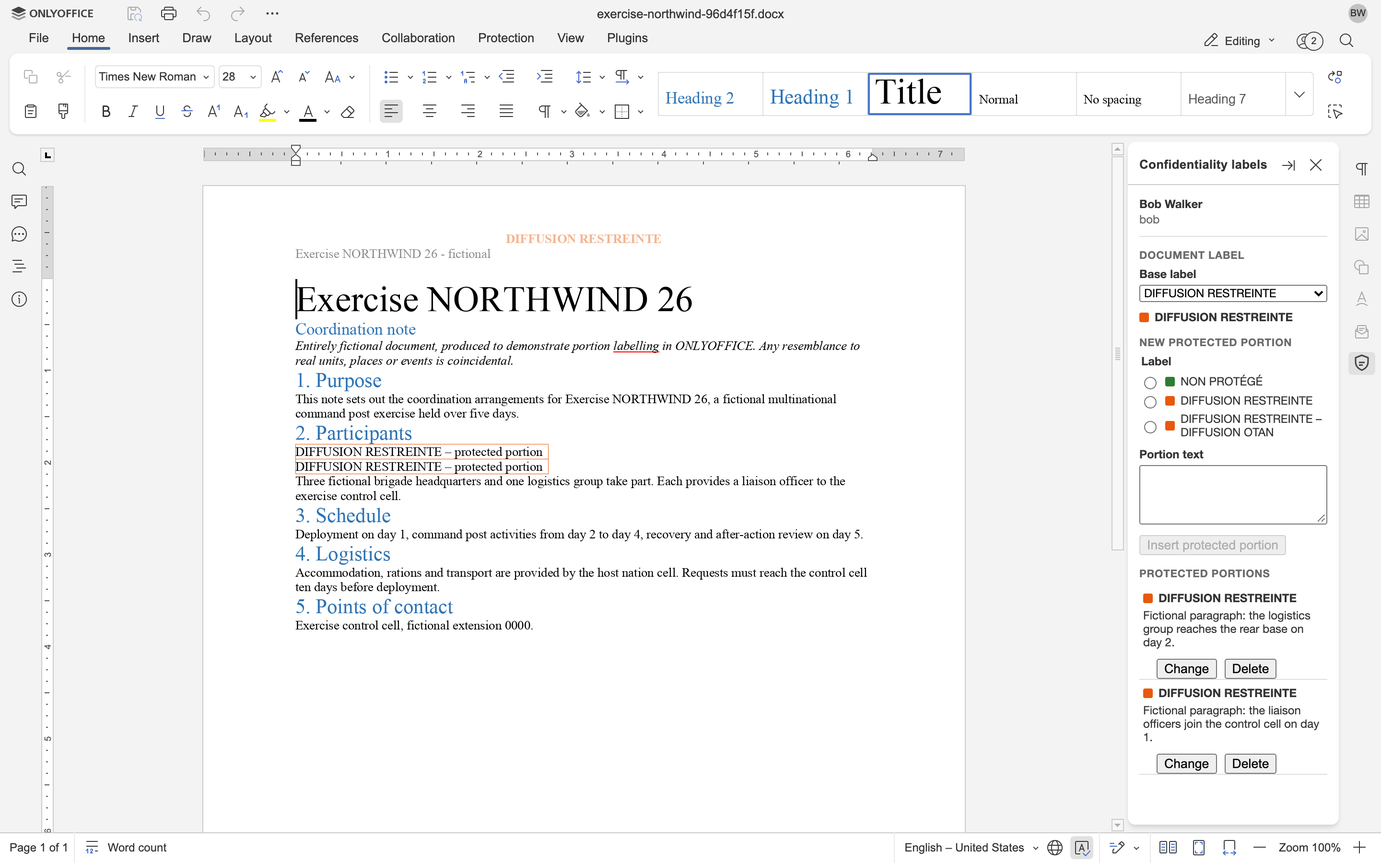
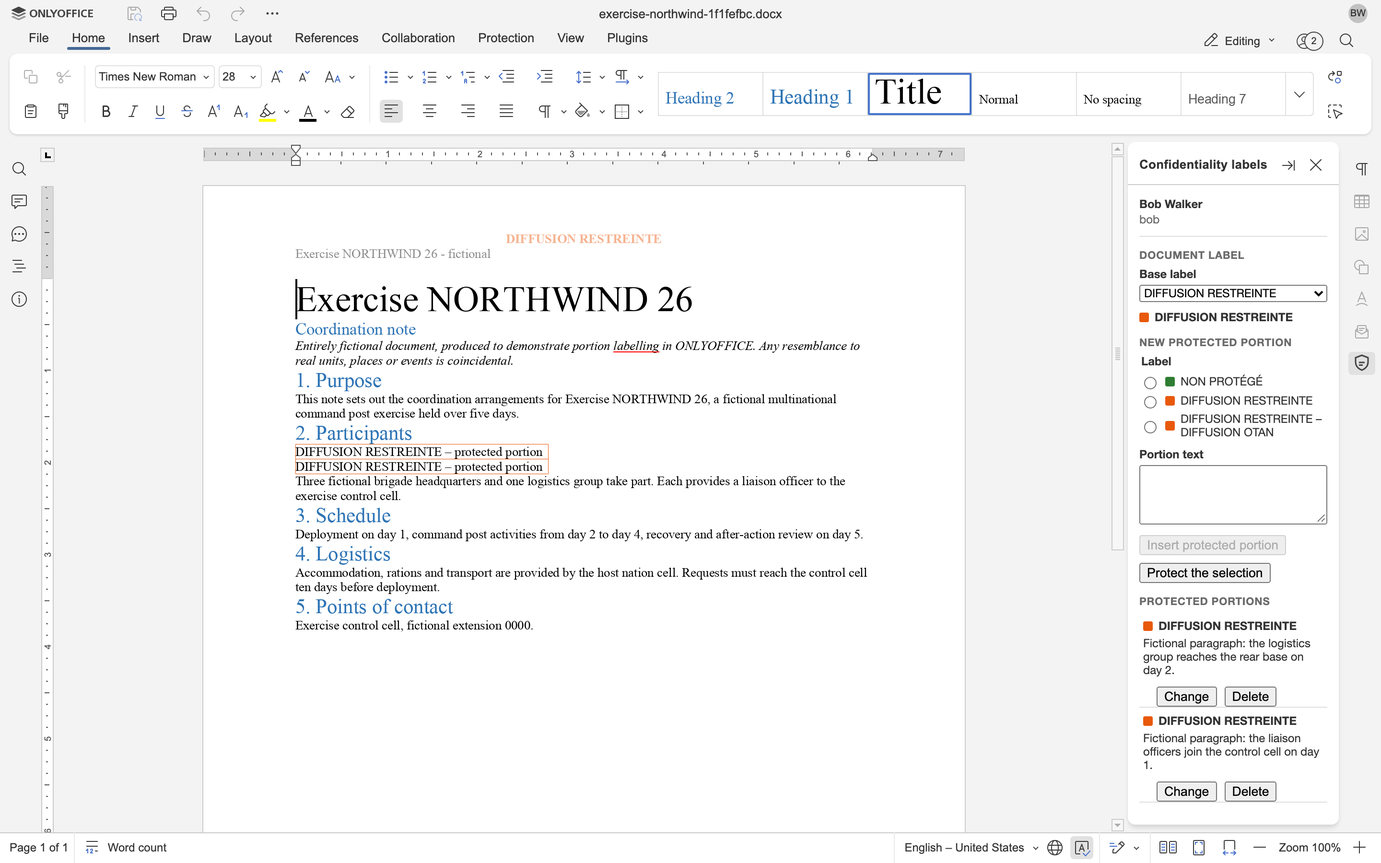
docs: Describe the protection of paragraphs
Refs #122

Changed region(s): [[0.8125, 0.6533, 0.9375, 0.9333], [0.4375, 0.0, 0.5625, 0.0311]]

diff --git a/SECURITY.md b/SECURITY.md
@@ -58,7 +58,7 @@ These are known properties of the demonstrator, not vulnerabilities:
 - In a workbook, a portion's placeholder is locked by an ONLYOFFICE user protected range that lists no editor: each co-author's editor refuses typing, pasting, cutting, filling, sorting or deleting rows over it, but the lock is an ONLYOFFICE extension, which each browser enforces for its own user, and which Microsoft Excel keeps without enforcing. A co-author can still delete a whole sheet, and with it its portions' ranges, which the next save logs as removed. The panel writes a placeholder before it locks it. To change or delete a portion, it lifts the lock in its own browser only, for the command that writes, outside the editor's history, and to delete one it removes the range, through the editor's internal model, which ONLYOFFICE does not document and a new version may change; it reads the ranges, checks the selected cells and finds the active cell through that model too. The end-to-end tests guard the lift, the lock that comes back after it, and the removal; should a new version refuse to remove a range, the panel writes nothing and the portion stays whole. Anyone able to run commands in the editor could lift the lock the same way. Formulas that reference a placeholder see its marking, never the portion's text, which stays in the envelope.
 - While a co-author types in a cell of a workbook, their editor holds back every change that reaches them until they leave the cell, a portion's raise to a label beyond their clearance included: their panel keeps showing the text it showed them until then. What they write stays in their browser as well; a portion change held back for more than the minute the policy service remembers its version would let another author change the same portion, and the workbook would keep both versions. The panel therefore writes nothing into a workbook while its author types in a cell, which it learns through the editor's internal model. In co-editing, the spreadsheet editor's undo takes back an author's command only when it can reverse all of it: a change of a portion's text comes undone, with its earlier envelope and version, while an insertion, a change of label or a deletion stays whole.
 - A workbook's page marking sits in its sheets' headers and footers, which the spreadsheet editor shows only when printing, in print preview and in PDF: on screen, only the panel shows the document label. Any author can change or remove the header and footer strings from the editor's dialog, which no lock prevents; the next author's panel to read them writes them again. The panel writes them through the editor's internal model, as it reads the ranges. A left or right section, which the panel keeps as long as the string fits within Microsoft Excel's 255 characters, can run into the centred marking once printed, even a short one when the marking is long and the page narrow: on A4 in portrait, the demo template's sections ran into the marking of a workbook that holds a more restrictive portion, hence a template that prints in landscape. A marking too long to fit within 255 characters on its own, which no label of the demo policy has, is written whole, and Excel may not keep it.
-- Protecting existing content protects it from then on only: it went through ONLYOFFICE in clear before, as the panel warns its author before they confirm. The Document Server's working files of the editing session, co-authors' browsers, the stored file until the next save, downloads and other copies made before keep it, and the editor's undo brings it back into the cells. In a workbook, the panel protects the cells' displayed values, rows of tab-separated cells, and their formats, data validation and conditional formatting go with them. It refuses cells that hold a comment, which would stay in clear, a formula, whose result depends on other cells, a merge, a portion, a table or a pivot table; other parts of the workbook that copy cell values, such as the cache of a pivot table built elsewhere on them, keep them. The panel reads the cells through the editor's builder API and checks them through its internal model, as for an insertion; it compares them again, in the command that writes, with what it read, and writes nothing if they changed.
+- Protecting existing content protects it from then on only: it went through ONLYOFFICE in clear before, as the panel warns its author before they confirm. The Document Server's working files of the editing session, co-authors' browsers, the stored file until the next save, downloads and other copies made before keep it, and the editor's undo brings it back into the document. In a text document, the panel protects whole paragraphs as plain text: their formatting, list numbering, bookmarks, hyperlinks and unlocked inline content controls go with them. It refuses paragraphs that hold a table, an image or a shape, part of a portion, a page marking or another locked content control, and the comments and notes that it finds through the editor's internal model: a comment whose marks lie inside the paragraphs, which would stay in clear, and a note, which would be lost. A comment that spans them from outside stays, in clear, as do the results that fields elsewhere, such as a table of contents or a cross-reference, last computed from them, until they are updated. The paragraphs leave the document even while changes are tracked, with no tracked deletion that would keep their text; the portion's placeholder then shows as a tracked insertion. In a workbook, the panel protects the cells' displayed values, rows of tab-separated cells, and their formats, data validation and conditional formatting go with them. It refuses cells that hold a comment, which would stay in clear, a formula, whose result depends on other cells, a merge, a portion, a table or a pivot table; other parts of the workbook that copy cell values, such as the cache of a pivot table built elsewhere on them, keep them. The panel reads the cells through the editor's builder API and checks them through its internal model, as for an insertion. In either editor, it compares the content again, in the command that writes, with what it read, and writes nothing if it changed.
 - Anyone able to edit a document can change a portion's label in clear, which the document label, the placeholder in the body and refused readers rely on. Only readers who open the envelope see the label bound to it, with a warning; someone who holds the envelope's key could even replace that bound label.
 - The signature of the document label's binding proves that the platform computed the label from the labels in clear, and bound it to the package parts it references, when it stored the file; it proves nothing of who wrote the content. The policy service signs whatever the saved labels in clear give, so a label lowered in the editor is signed too, and logged. The signature covers the parts ADatP-4778.2 lists; not the package's relationships (`_rels`) and content types (`[Content_Types].xml`), nor its other parts, the Custom XML parts among them: the base label's part, and the portions' parts, whose envelopes bind their labels. In a workbook, some of the parts that Tables 5-2 and 5-3 leave out hold content, and a change to them goes unnoticed: threaded comments (`xl/threadedComments/`), which repeat a comment's text, and their authors (`xl/persons/`); pivot caches (`xl/pivotCache/`) and the caches of links to other workbooks (`xl/externalLinks/`), which copy cell values; embedded objects (`xl/embeddings/`); drawings (`xl/drawings/`), which place charts and pictures on a sheet; tables (`xl/tables/`), slicers (`xl/slicers/`, `xl/slicerCaches/`), chart sheets (`xl/chartsheets/`), cell metadata (`xl/metadata.xml`) and themes (`xl/theme/`). A verifier must digest again the package parts that the signature's `Manifest` references: `xmlsec1` reports them but still exits with 0 when one of them no longer matches. A file that the policy service could not sign is stored unsigned, and the failure logged; its binding then references the parts the panel named, those a text document saved by ONLYOFFICE always holds, even in a workbook, until a save signs it. The demo key and its self-signed certificate live in `deploy/.env`, not in a hardware security module; a deployment would use a key and a certificate its PKI issues.
 - The sensitivity label that the policy service writes at each save, with a label mapping, is metadata that Office reads and a Microsoft 365 tenant applies its rules to: it encrypts nothing, and says nothing of the protected portions. It follows the document label only, without its informative categories, so a document that holds more restrictive portions carries the sensitivity label of its base label. The binding signature covers it, since it sits in the custom properties part. Editors can delete it in the editor's file information; the next save writes it again. The editor never sees the properties the policy service writes, so the portal sends the stored file's custom properties with each save, to keep the label's date and action id while it stays; when that part exceeds about 6 KB, it sends none and logs it, and the date and the action id then follow the saved file, which holds them as the editing session opened. Whether Word shows the label has not been checked with a real tenant. The platform writes no Sensitivity Label Information part (`docMetadata/LabelInfo.xml`), which ONLYOFFICE drops at each save and the signature does not cover; since Word, in a tenant that enables co-authoring of encrypted files, would show that part's label rather than the signed one, the portal logs a stored file that holds one whenever it serves it, with `Stored file holds a Sensitivity Label Information part`, and serves it all the same.

diff --git a/docs/walkthrough.md b/docs/walkthrough.md
@@ -1,6 +1,6 @@
 # Demo walkthrough
 
-The demo scenario, step by step, on the standalone stack and its fictional accounts: in a text document, then, from step 11, in a workbook. Alice Martin, a French officer and an administrator, is cleared for every label of the demo security policy; Bob Walker, an allied officer, for every label but DIFFUSION RESTREINTE – SPÉCIAL FRANCE. The documents, their portions and every text below are fictional.
+The demo scenario, step by step, on the standalone stack and its fictional accounts: in a text document, then, from step 12, in a workbook. Alice Martin, a French officer and an administrator, is cleared for every label of the demo security policy; Bob Walker, an allied officer, for every label but DIFFUSION RESTREINTE – SPÉCIAL FRANCE. The documents, their portions and every text below are fictional.
 
 `pnpm --filter @dcs/e2e demo` replays the same scenario and records a video of each person's browser, `alice.webm` and `bob.webm`, under `e2e/test-results/demo`; the CI replays it after the end-to-end suite and keeps the videos for 14 days, as the `demo-videos` artefact of each run. The pictures below come from the same scenario, taken with `pnpm --filter @dcs/e2e captures` on a fresh stack.
 
@@ -70,55 +70,61 @@ On the home page, Alice uploads a Word file that a Microsoft 365 tenant labelled
 
 ![The uploaded document, with the base label DIFFUSION RESTREINTE – DIFFUSION OTAN](screenshots/walkthrough/10-uploaded.png)
 
-## 11. A workbook
+## 11. A paragraph already written, protected
+
+The report's paragraph on transport turns out to be for French eyes only. Alice selects it, picks DIFFUSION RESTREINTE – SPÉCIAL FRANCE and presses **Protect the selection**, rather than retype its text into a new portion. The panel shows the plain text of the whole paragraphs the selection touches, and warns that it already went through ONLYOFFICE in clear: it is protected from now on only, and copies made before, such as the editor's working files of this session, keep it. Once she confirms, the text goes, encrypted, into a new portion's envelope, and the portion's placeholder takes the paragraph's place. The document label reads DIFFUSION RESTREINTE – DIFFUSION OTAN – CONTIENT DES PORTIONS PLUS RESTRICTIVES. The editor's context menu offers the same action.
+
+![The panel's confirmation, with the warning and the paragraph's text](screenshots/walkthrough/11-paragraph-protection.png)
+
+## 12. A workbook
 
 The same scenario goes on in a workbook. Alice creates one from the `exercise-northwind-logistics.xlsx` template, which opens in ONLYOFFICE's spreadsheet editor with the same labelling panel, and gives it the base label DIFFUSION RESTREINTE.
 
-![The spreadsheet editor, with the labelling panel and the document label DIFFUSION RESTREINTE](screenshots/walkthrough/11-workbook-base-label.png)
+![The spreadsheet editor, with the labelling panel and the document label DIFFUSION RESTREINTE](screenshots/walkthrough/12-workbook-base-label.png)
 
-## 12. Portions in cells
+## 13. Portions in cells
 
 Alice selects empty cells, picks a label and types a text in the panel, as in the text document: the panel merges the cells into a placeholder that shows the portion's marking in its label's colour, and locks it, so that no one can type into it. The text goes, encrypted, into the portion's envelope. She inserts a second portion into other empty cells.
 
-![Two portions in cells, listed in the panel with their texts](screenshots/walkthrough/12-workbook-portions.png)
+![Two portions in cells, listed in the panel with their texts](screenshots/walkthrough/13-workbook-portions.png)
 
-## 13. Co-editing a workbook
+## 14. Co-editing a workbook
 
 Bob opens the workbook: his panel reads both portions. When he selects a placeholder, the panel highlights its portion, and a bubble shows him its text over the placeholder.
 
-![Bob's editor, where the bubble shows the portion whose placeholder he selected](screenshots/walkthrough/13-workbook-co-editing.png)
+![Bob's editor, where the bubble shows the portion whose placeholder he selected](screenshots/walkthrough/14-workbook-co-editing.png)
 
-## 14. A change the co-author sees
+## 15. A change the co-author sees
 
 Alice changes the first portion under its portion lock, as in the text document: Bob's panel shows the portion being changed, and by whom, then its new text.
 
-![Bob's panel, which shows the portion being changed by Alice Martin](screenshots/walkthrough/14-workbook-being-changed.png)
+![Bob's panel, which shows the portion being changed by Alice Martin](screenshots/walkthrough/15-workbook-being-changed.png)
 
-## 15. A raise to SPÉCIAL FRANCE
+## 16. A raise to SPÉCIAL FRANCE
 
 Alice raises the first portion to DIFFUSION RESTREINTE – SPÉCIAL FRANCE: its placeholder shows the new marking, and Bob's panel shows "Access denied". The document label reads DIFFUSION RESTREINTE – CONTIENT DES PORTIONS PLUS RESTRICTIVES.
 
-![Bob's editor, where the placeholder shows SPÉCIAL FRANCE and the panel "Access denied"](screenshots/walkthrough/15-workbook-access-denied.png)
+![Bob's editor, where the placeholder shows SPÉCIAL FRANCE and the panel "Access denied"](screenshots/walkthrough/16-workbook-access-denied.png)
 
-## 16. A deletion
+## 17. A deletion
 
 Alice deletes the second portion: it leaves both panels, and its cells are empty again, for anyone to type into.
 
-![The confirmation of a portion's deletion in a workbook](screenshots/walkthrough/16-workbook-deletion.png)
+![The confirmation of a portion's deletion in a workbook](screenshots/walkthrough/17-workbook-deletion.png)
 
-## 17. Rows already filled, protected
+## 18. Rows already filled, protected
 
-The last two rows of supplies turn out to be for French eyes only. Alice selects them, cells already filled that a portion's insertion refuses, picks DIFFUSION RESTREINTE – SPÉCIAL FRANCE and presses **Protect the selection**. The panel shows their values as the portion will hold them, rows of tab-separated cells, and warns that they already went through ONLYOFFICE in clear: they are protected from now on only, and copies made before, such as the editor's working files of this session, keep them. Once she confirms, the values go, encrypted, into a new portion's envelope, and the rows become its placeholder: Bob's panel shows "Access denied". The editor's context menu offers the same action. The journal records the protection, never the values.
+The last two rows of supplies turn out to be for French eyes only. Alice selects them, cells already filled that a portion's insertion refuses, picks DIFFUSION RESTREINTE – SPÉCIAL FRANCE and presses **Protect the selection**. The panel shows their values as the portion will hold them, rows of tab-separated cells, and warns that they already went through ONLYOFFICE in clear: they are protected from now on only, and copies made before, such as the editor's working files of this session, keep them. Once she confirms, the values go, encrypted, into a new portion's envelope, and the rows become its placeholder: Bob's panel shows "Access denied". The editor's context menu offers the same action, as for a paragraph in [step 11](#11-a-paragraph-already-written-protected). The journal records the protection, never the values.
 
-![The panel's confirmation, with the warning and the values of the two rows](screenshots/walkthrough/17-workbook-protection.png)
+![The panel's confirmation, with the warning and the values of the two rows](screenshots/walkthrough/18-workbook-protection.png)
 
-## 18. The page marking of a workbook
+## 19. The page marking of a workbook
 
 A workbook's page marking goes into the centre of every sheet's headers and footers, first and even pages included: the spreadsheet editor shows it only when printing, in the print preview (**File**, **Print**) and in a PDF, while the panel shows the document label on screen.
 
-![The print preview, with the page marking at the top and the bottom of the page](screenshots/walkthrough/18-workbook-print-preview.png)
+![The print preview, with the page marking at the top and the bottom of the page](screenshots/walkthrough/19-workbook-print-preview.png)
 
-## 19. The signed binding of a workbook
+## 20. The signed binding of a workbook
 
 Once both leave the editor, the stored workbook carries the page marking and a binding signed as a text document's, over the parts that ADatP-4778.2 lists for a workbook: `xmlsec1` verifies it the same way, as [step 8](#8-the-signed-binding) tells. This step has no picture.
 

diff --git a/README.md b/README.md
@@ -44,7 +44,7 @@ The stack runs with Docker Compose: ONLYOFFICE Docs Community Edition, the OpenT
 - **Base label.** The author gives the document's unprotected content a base label, which decides who may open the document. Anyone may raise it; only cleared administrators are offered lower ones.
 - **Changing a portion.** An author who can read a protected portion changes its text and its portion label from the panel, under a portion lock that one author holds at a time. The panel takes the lock from the policy service, renews it while its edit form stays open, and releases it once the change is saved or dropped. The labels offered are those the author's clearance allows that do not lower the current one; lower ones only to an administrator cleared for it. Co-authors see the portion being changed, with the author's name, then its new version. The file keeps only the latest envelope, and the portion version counts the changes.
 - **Deleting a portion.** Under the same lock, an author who can read a protected portion deletes it from the panel once they confirm. One editor command removes its placeholder and its part, and writes the document label and the page marking again without it; co-authors' panels drop it.
-- **Protecting existing content.** In a workbook, an author who finds cells that call for a restrictive label selects them, picks a label and presses **Protect the selection**, in the panel or in the editor's context menu. The panel shows their displayed values as the portion will hold them, rows of tab-separated cells as a copy from the grid gives them, and warns that they already went through ONLYOFFICE in clear: they are protected from then on only, and copies made before, such as the editor's working files of the session, keep them. Once the author confirms, the panel encrypts them as the text of a new portion, and one editor command clears the cells and makes them its placeholder, as an insertion does. Cells that hold a comment, which would stay in clear, a formula, which the author turns into its value first, a merge, a portion, a table or a pivot table, which clearing them would break, are refused, as is a selection of several blocks of cells; nothing is written when the cells changed since the panel read them. The journal records the protection, never the content.
+- **Protecting existing content.** An author who finds content that calls for a restrictive label, paragraphs of a text document or cells of a workbook, selects it, picks a label and presses **Protect the selection**, in the panel or in the editor's context menu. The panel shows the content as the portion will hold it, the plain text of the whole paragraphs the selection touches, or the cells' displayed values in rows of tab-separated cells as a copy from the grid gives them, and warns that it already went through ONLYOFFICE in clear: it is protected from then on only, and copies made before, such as the editor's working files of the session, keep it. Once the author confirms, the panel encrypts it as the text of a new portion, and one editor command puts the portion's placeholder where the paragraphs stood, or clears the cells and makes them its placeholder, as an insertion does. Paragraphs that hold a table, an image or a shape, part of a portion, a page marking or another locked content control, a comment, which would stay in clear, or a note, which would be lost, are refused; the paragraphs leave the document even while changes are tracked, since a tracked deletion would keep their text. Cells that hold a comment, a formula, which the author turns into its value first, a merge, a portion, a table or a pivot table, which clearing them would break, are refused, as is a selection of several blocks of cells. Nothing is written when the content changed since the panel read it. The journal records the protection, never the content.
 - **Page marking.** The document label's marking, centred, in bold and in its colour, at the top and the bottom of every page. The panel writes it with the document label, after an insertion, a change, a deletion or a new base label, in a locked content control of its own that opens every header and closes every footer, first page and even pages included; the rest of a template's header and footer stays. An author whose panel finds the page marking missing, moved, changed by hand or stale, in a document labelled before page markings existed for instance, writes it again.
 - **Co-editing.** Portions and the document label reach co-authors in real time, and concurrent insertions converge to the right label.
 - **Workbooks.** A workbook, created from the workbook template, opens in ONLYOFFICE's spreadsheet editor with the labelling panel, which gives it its base label and shows its document label as in a text document, and in its read-only viewer, on the left, as in the text viewer. The portal decides who opens a workbook, signs its binding, writes its sensitivity label, checks its signature and journals its base label changes as a text document's, and downloads it as XLSX. A protected portion goes into empty cells the author selects: the panel merges them into a placeholder that shows the portion's marking in its label's colour, bold and bordered, locked by an ONLYOFFICE user protected range that lets no one type into it through the editor ([ADR 0006](docs/adr/0006-a-workbook-portion-is-a-user-protected-range.md)); cells that hold a value, a merge or another portion are refused. The page marking goes into the centre of every sheet's headers and footers, first and even pages included, bold and in the label's colour, keeping their left and right sections within Microsoft Excel's 255 characters; the spreadsheet editor shows it only when printing, in print preview and in PDF, while the panel shows the document label on screen. Any author who can read a workbook's portion changes its text and its label, or deletes it, from the panel and under its portion lock, as in a text document; a deletion unmerges and clears its cells. The panel follows the selection, in the editor and in the viewer: it highlights the portion whose placeholder holds the active cell, the bubble shows that portion's text over the placeholder until the selection leaves it or Escape closes it, and a click on a portion in the panel selects its placeholder. Co-editing works as in a text document: portions, the document label and the page marking reach co-authors in real time, concurrent insertions converge to the right label, and a base label that excludes a co-author ends the editing session. While an author types in a cell, the spreadsheet editor holds back what they write and what reaches them until they leave the cell, so the panel writes nothing meanwhile and says why. An undo takes back a whole portion command; in co-editing, ONLYOFFICE takes back only a change of a portion's text, and leaves an insertion, a change of label or a deletion whole. A workbook is uploaded as a text document is, and keeps its portions.
@@ -238,7 +238,7 @@ Sign in with one of the fictional accounts below: the password is the login.
 
 ### Walk through the demo
 
-[docs/walkthrough.md](docs/walkthrough.md) follows the demo scenario step by step, with pictures: a base label, portions, co-editing, a change the co-author sees, a raise to SPÉCIAL FRANCE that shuts the allied officer out, a deletion, the page markings, the signed binding, a revocation and an upload, then, in a workbook, the steps from the base label to the signed binding, with the protection of rows already filled, its page marking showing in the print preview. `pnpm --filter @dcs/e2e demo` replays it with a video of each person's browser, and the CI keeps each run's videos for 14 days.
+[docs/walkthrough.md](docs/walkthrough.md) follows the demo scenario step by step, with pictures: a base label, portions, co-editing, a change the co-author sees, a raise to SPÉCIAL FRANCE that shuts the allied officer out, a deletion, the page markings, the signed binding, a revocation, an upload and the protection of a paragraph already written, then, in a workbook, the steps from the base label to the signed binding, with the protection of rows already filled, its page marking showing in the print preview. `pnpm --filter @dcs/e2e demo` replays it with a video of each person's browser, and the CI keeps each run's videos for 14 days.
 
 ### Deploy
 
